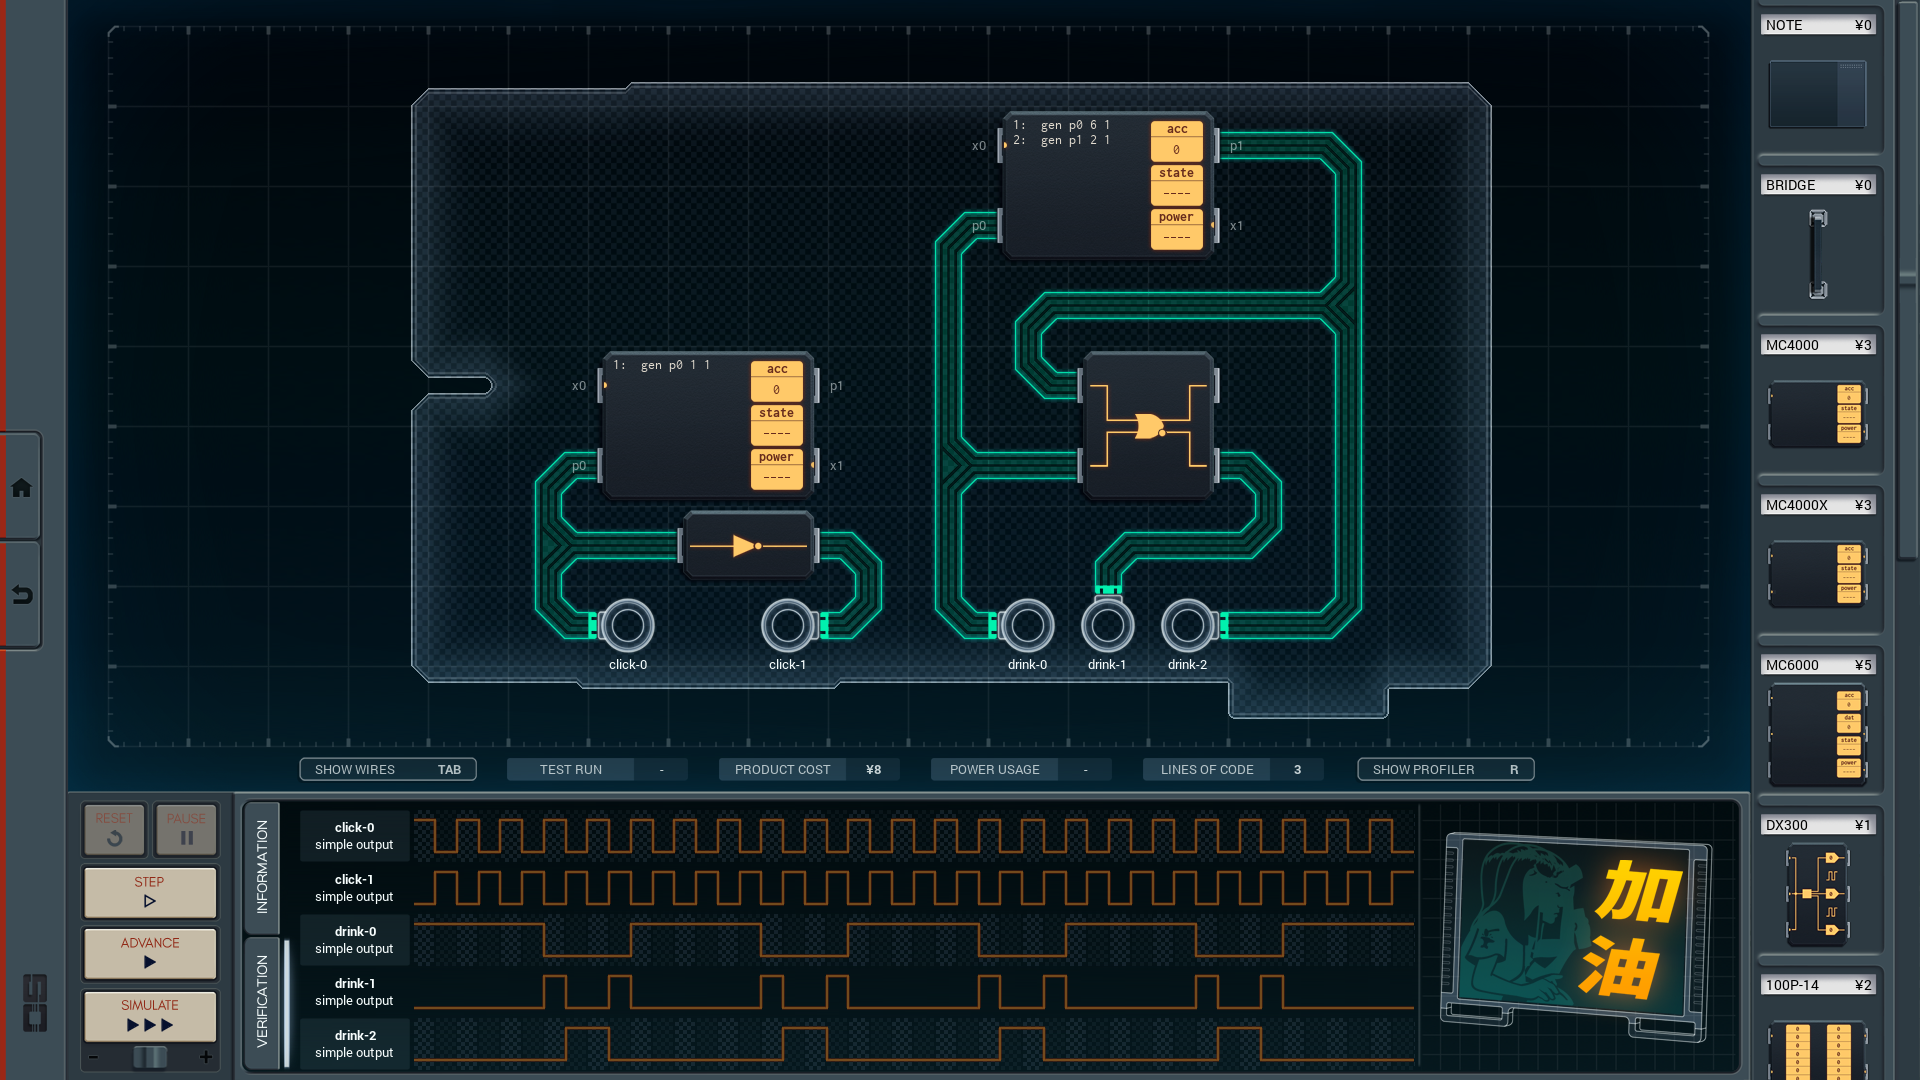
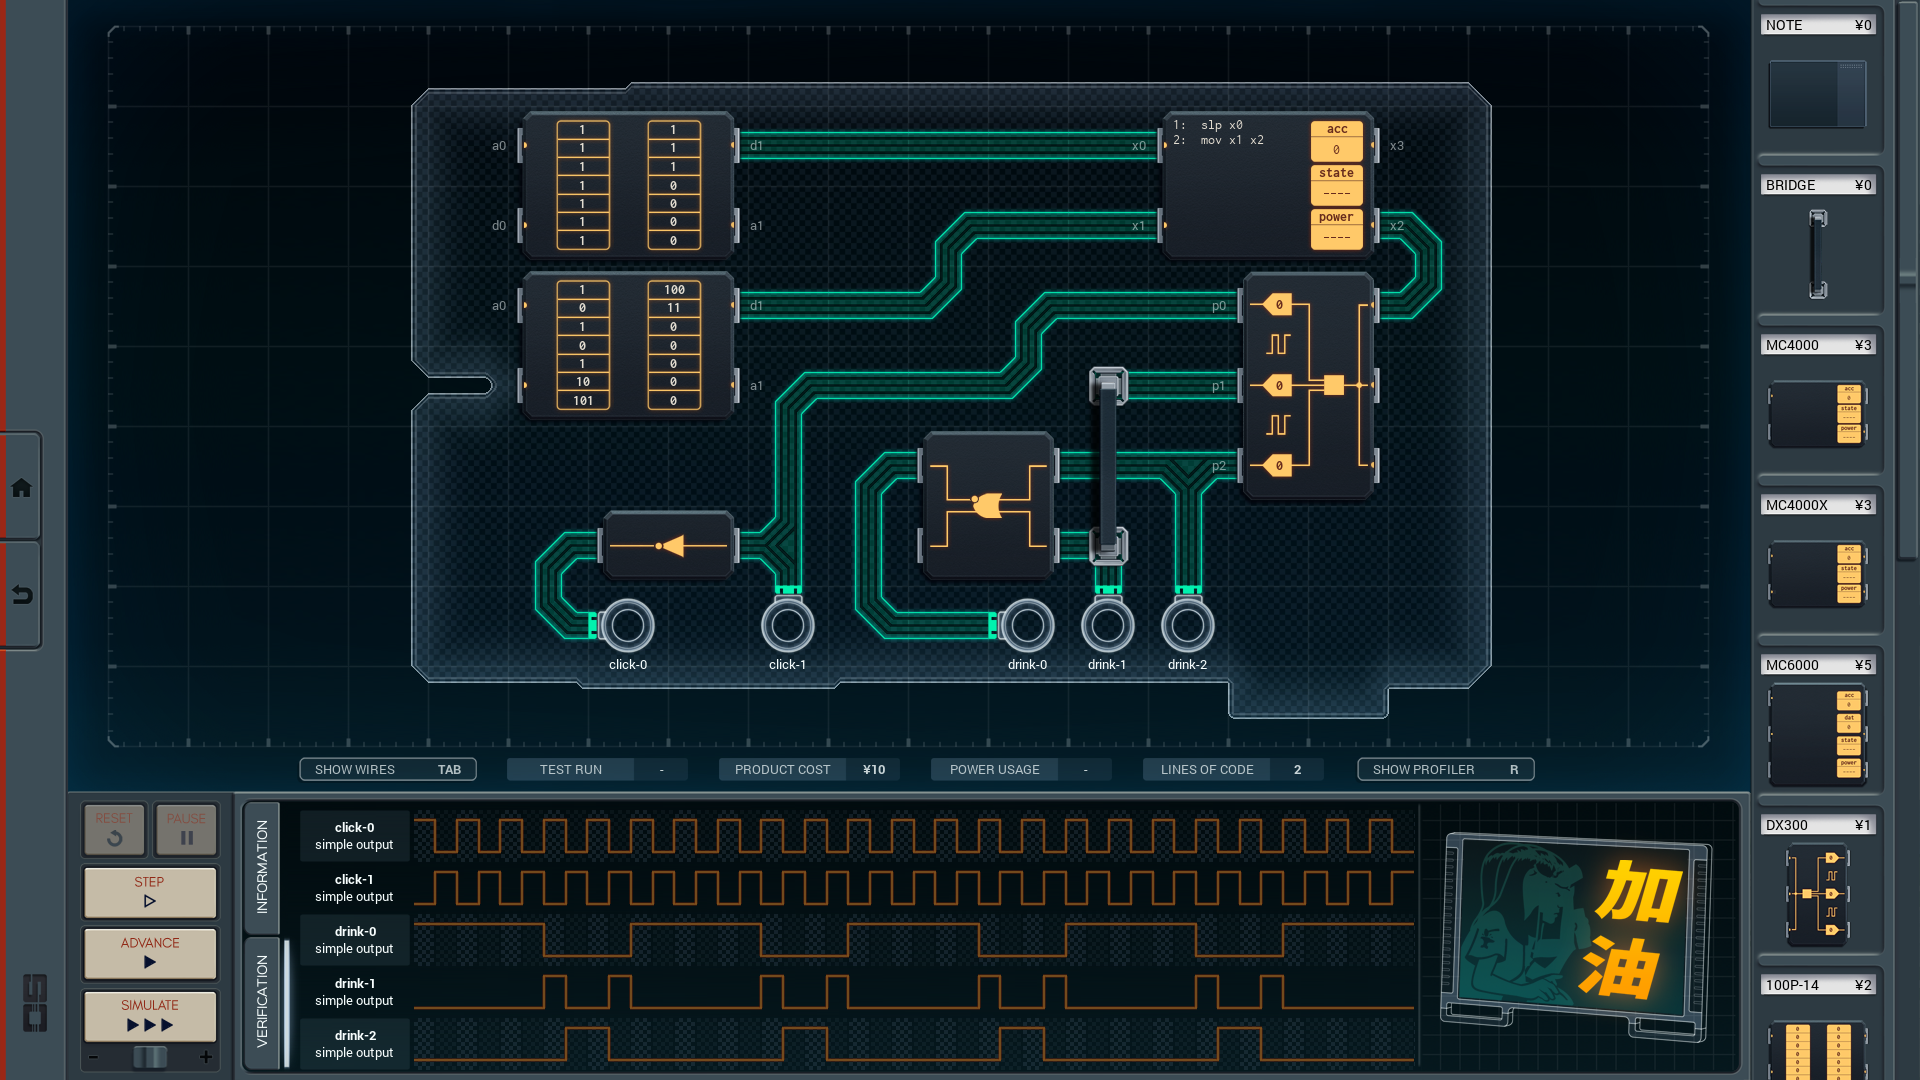
2022/09/29 Merged min lines solution & min power solution for Animated Esports Sign. [BEF] 8C / 126P / 3L & 14C / 323P / 2L [AFT] 10C / 123P / 2L

Changed region(s): [[0.25, 0.0917, 0.75, 0.6111]]

diff --git a/004-animated-esports-sign/README.md b/004-animated-esports-sign/README.md
@@ -3,12 +3,7 @@
 
 ![screenshot0](https://github.com/shiawasenahikari/Shenzhen-IO-Solutions/blob/master/004-animated-esports-sign/screenshot0.png)
 
-8/126/3 (MIN POWER) SOLUTION
-----------------------------
+10/123/2 (MIN LINES & POWER) SOLUTION
+-------------------------------------
 
 ![screenshot1](https://github.com/shiawasenahikari/Shenzhen-IO-Solutions/blob/master/004-animated-esports-sign/screenshot1.png)
-
-14/323/2 (MIN LINES, PGA) SOLUTION
-----------------------------------
-
-![screenshot2](https://github.com/shiawasenahikari/Shenzhen-IO-Solutions/blob/master/004-animated-esports-sign/screenshot2.png)
